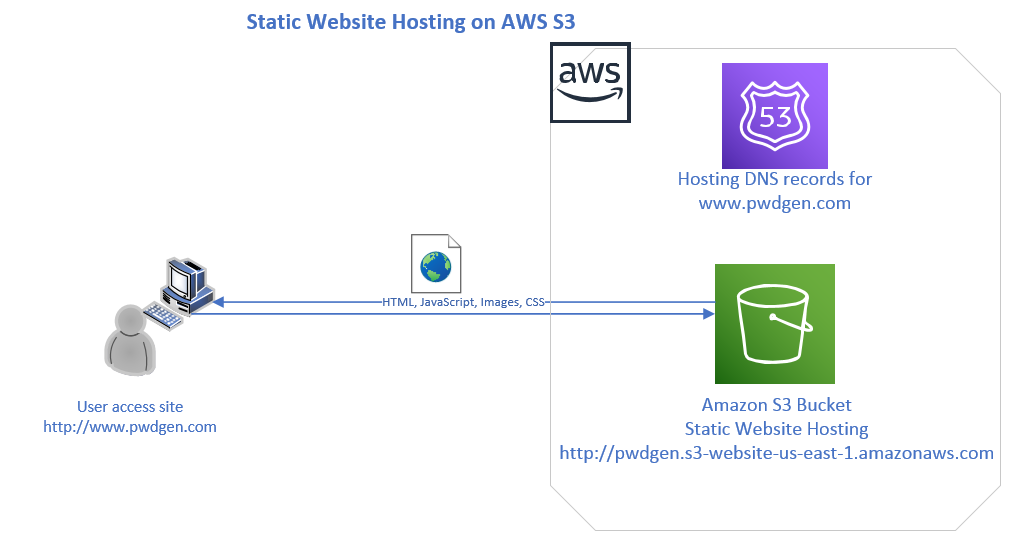
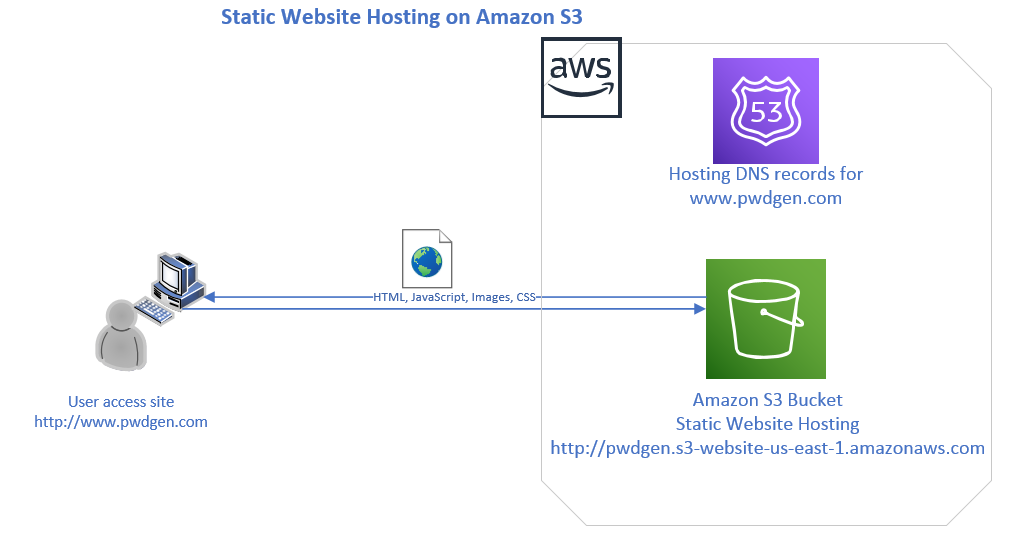
Added error page

diff --git a/Website/error.html b/Website/error.html
@@ -1,0 +1,42 @@
+<!DOCTYPE html>
+<html>
+<head>
+    <meta charset="utf-8" />
+    <meta name="viewport" content="width=device-width, initial-scale=1, shrink-to-fit=no">
+    <title>Error</title>
+    <!--Project CSS -->
+    <link rel="stylesheet" href="css/Style.css">
+    <link rel="stylesheet" href="css/all.min.css">
+    <link rel="stylesheet" href="css/bootstrap.min.css">
+    <!--Project JS -->
+    <link rel="stylesheet" href="js/site.js">
+    <!-- custom fonts-->
+    <link href="https://fonts.googleapis.com/css?family=Source+Sans+Pro:300,400,700,300italic,400italic,700italic" rel="stylesheet" type="text/css">
+    <!-- Latest compiled and minified CSS -->
+    <style>
+        .center {
+            margin: auto;
+            width: 50%;
+            border: 3px solid green;
+            padding: 10px;
+        }
+    </style>
+    <!-- jQuery library -->
+    <script src="https://ajax.googleapis.com/ajax/libs/jquery/3.3.1/jquery.min.js"></script>
+    <!-- Latest compiled JavaScript -->
+    <script src="https://maxcdn.bootstrapcdn.com/bootstrap/3.3.7/js/bootstrap.min.js"></script>    
+</head>
+<body id="page-top">
+
+    <!-- Header -->
+    <header class="masthead d-flex">
+        <div class="container text-center my-auto">
+            <h1 class="mb-1">Oops!</h1>
+            <p>&nbsp;</p>
+            <h3 class="mb-5">
+                <em>An error occurred while processing your request.</em>
+            </h3>            
+        </div>
+    </header>       
+</body>
+</html>

diff --git a/Website/css/Style.css b/Website/css/Style.css
@@ -7,7 +7,7 @@ html {
 
 body {
     font-family: 'Source Sans Pro';
-    background-color: paleturquoise;
+    background-color: #ecb807;
 }
 
 .btn-xl {

diff --git a/ReadMe.md b/ReadMe.md
@@ -1,8 +1,10 @@
-# Static Website Hosting on AWS S3
+# Static Website Hosting on Amazon S3
 
-AWS Simple Storage Service (AWS S3) can be used to host static Websites without a need for a Web server. S3 buckets can be used to host the HTML files for entire static websites.
+Amazon Simple Storage Service (Amazon S3) can be used to host static Websites without a need for a Web server. S3 buckets can be used to host the HTML files for entire static websites.
 
 A website is static when the system services used to render web pages and scripts are all client rather than server-based.
+
+Most websites are becoming static websites which means they run zero server side code and consist of only HTML, CSS and JavaScript. With no server side code to run, there is no reason to host them on a traditional server.
 
 You can start by creating an Amazon S3 bucket, enabling the Amazon S3 Website hosting feature, and configuring access permissions for the bucket. After you have uploaded files and setup Website, Amazon S3 takes care of serving your content to your visitors.
 
@@ -52,13 +54,13 @@ Upload the website contents to your S3 bucket including sub-folders.
 
 ### Step 3 - Add a Bucket Policy to Allow Public Reads
 
-Go to Permissions Tab --> Update Public Access Setting:
+Go to Permissions Tab and update Public Access Setting:
 
 Uncheck Manage public bucket policies:
 
-a. Uncheck - Block new public bucket policies (Recommended)
+* Uncheck - Block new public bucket policies (Recommended)
 
-b. Uncheck - Block public and cross-account access if bucket has public policies (Recommended) 
+* Uncheck - Block public and cross-account access if bucket has public policies (Recommended) 
 
 <br/>
 <img src="Documentation/Images/Step3-BucketPolicy-A.PNG" alt="Create Bucket Policy"/>
@@ -112,7 +114,9 @@ For Example:
 
 ## References
 
+* [What is Amazon S3](https://docs.aws.amazon.com/AmazonS3/latest/dev/Welcome.html)
 * [Hosting a Static Website on Amazon S3](https://docs.aws.amazon.com/AmazonS3/latest/dev/WebsiteHosting.html) 
+* [Example Walkthroughs - Hosting Websites on Amazon S3](https://docs.aws.amazon.com/AmazonS3/latest/dev/hosting-websites-on-s3-examples.html)
 * [How to Host a Website on S3 Without Getting Lost in the Sear](https://medium.freecodecamp.org/how-to-host-a-website-on-s3-without-getting-lost-in-the-sea-e2b82aa6cd38)
 
 ## Authors
